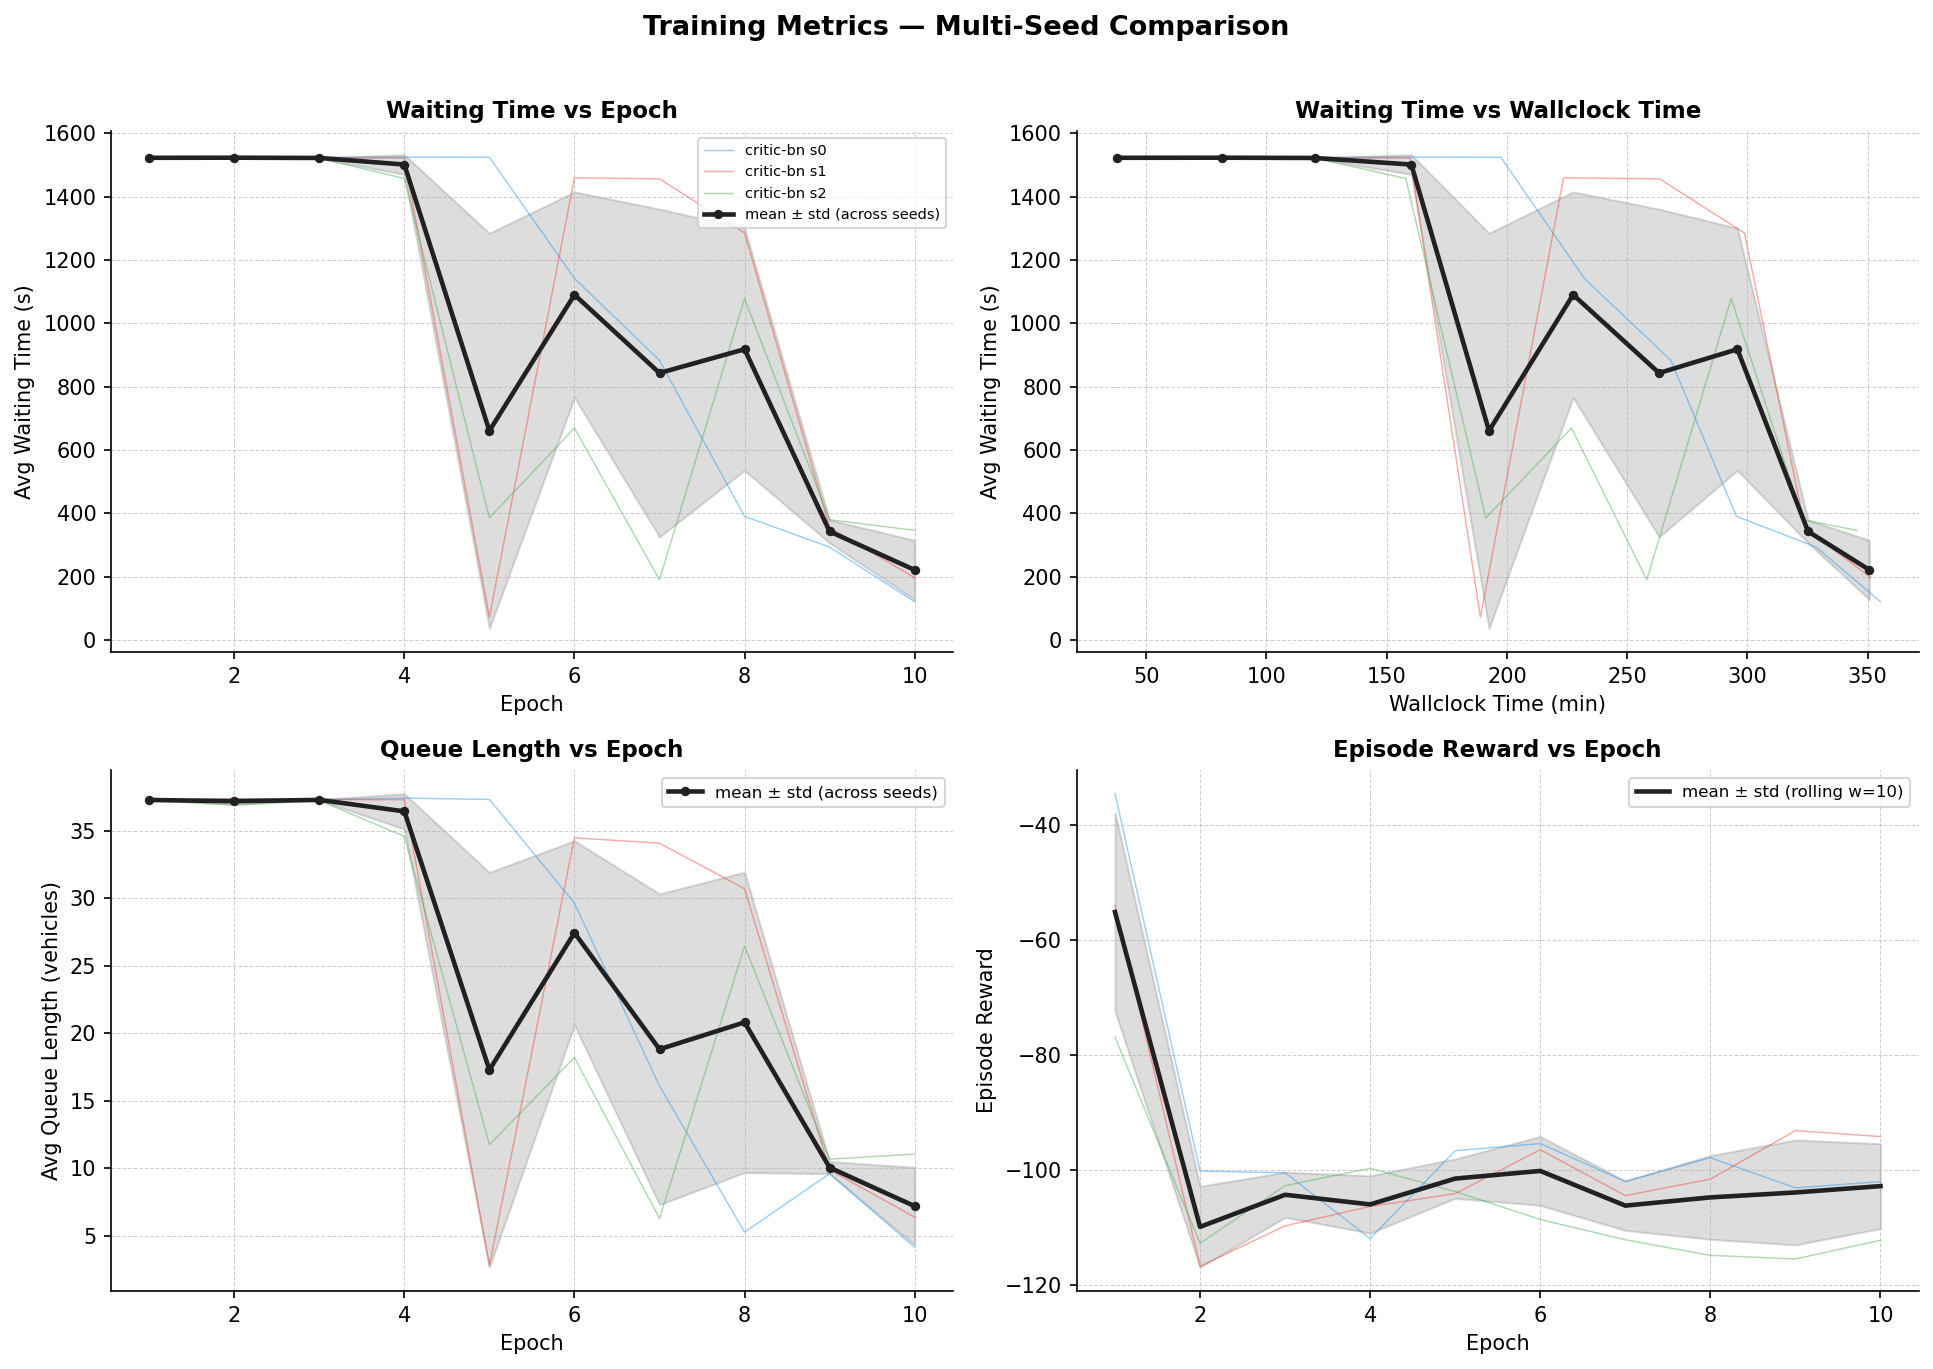
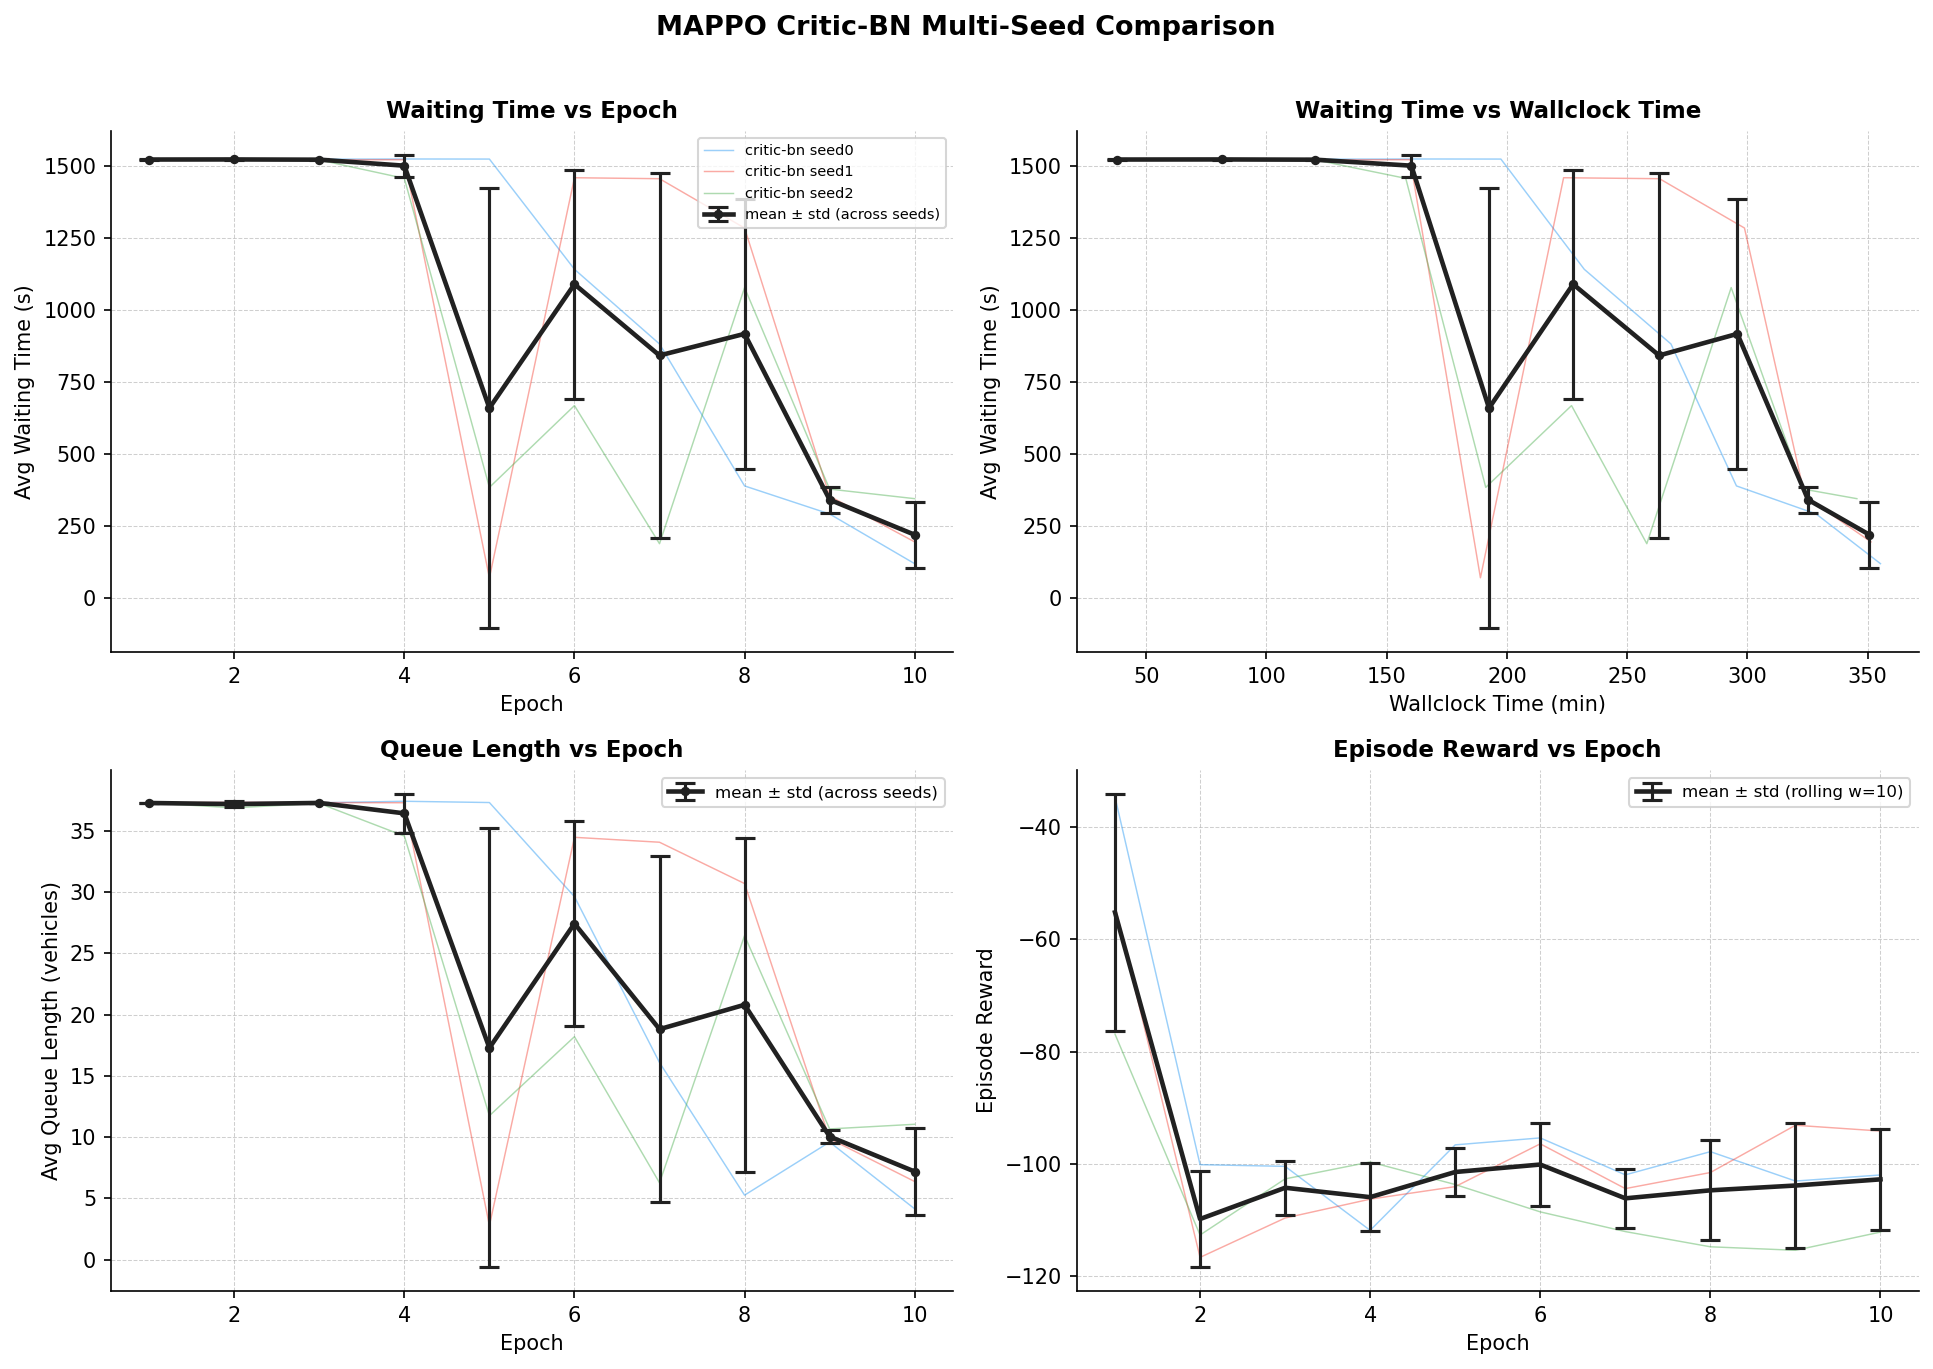
changed the MAPPO_BNTT name to MAPPO_BN

diff --git a/scripts/plot_metrics.py b/scripts/plot_metrics.py
@@ -192,13 +192,14 @@ PALETTE = [
 ]
 
 
-def plot_single(df: pd.DataFrame, label: str, smooth: int, out_dir: str, show: bool):
+def plot_single(df: pd.DataFrame, label: str, smooth: int, out_dir: str, show: bool,
+                title: str | None = None):
     """Plot a single CSV run — no cross-seed variance."""
     ev = _single_seed_eval(df)
     tr = _single_seed_train(df)
 
     fig, axes = plt.subplots(2, 2, figsize=(13, 9))
-    fig.suptitle(f"Training Metrics — {label}", fontsize=13, fontweight="bold", y=1.01)
+    fig.suptitle(title or f"Training Metrics — {label}", fontsize=13, fontweight="bold", y=1.01)
 
     color = PALETTE[0]
 
@@ -210,7 +211,7 @@ def plot_single(df: pd.DataFrame, label: str, smooth: int, out_dir: str, show: b
         std = ev["std_waiting_time"].values if "std_waiting_time" in ev.columns else None
         _shade(ax, x, y, std, color)
         ax.plot(x, y, color=color, linewidth=1.8, marker="o", markersize=3, label=label)
-        ax.legend(fontsize=8)
+        ax.legend(fontsize=8, loc="best")
     else:
         ax.text(0.5, 0.5, "No waiting-time data\n(run eval to populate)",
                 ha="center", va="center", transform=ax.transAxes, color="grey")
@@ -224,7 +225,8 @@ def plot_single(df: pd.DataFrame, label: str, smooth: int, out_dir: str, show: b
         y   = ev["mean_waiting_time"].values
         std = ev["std_waiting_time"].values if "std_waiting_time" in ev.columns else None
         _shade(ax, x, y, std, color)
-        ax.plot(x, y, color=color, linewidth=1.8, marker="o", markersize=3)
+        ax.plot(x, y, color=color, linewidth=1.8, marker="o", markersize=3, label=label)
+        ax.legend(fontsize=8, loc="best")
     else:
         ax.text(0.5, 0.5, "No waiting-time data", ha="center", va="center",
                 transform=ax.transAxes, color="grey")
@@ -238,7 +240,8 @@ def plot_single(df: pd.DataFrame, label: str, smooth: int, out_dir: str, show: b
         y   = ev["mean_queue_length"].values
         std = ev["std_queue_length"].values if "std_queue_length" in ev.columns else None
         _shade(ax, x, y, std, color)
-        ax.plot(x, y, color=color, linewidth=1.8, marker="o", markersize=3)
+        ax.plot(x, y, color=color, linewidth=1.8, marker="o", markersize=3, label=label)
+        ax.legend(fontsize=8, loc="best")
     else:
         ax.text(0.5, 0.5, "No queue-length data", ha="center", va="center",
                 transform=ax.transAxes, color="grey")
@@ -252,8 +255,8 @@ def plot_single(df: pd.DataFrame, label: str, smooth: int, out_dir: str, show: b
         y_smth = _rolling_mean(tr["episode_reward"], smooth).values
         ax.plot(x_raw, y_raw, color=color, linewidth=0.6, alpha=0.3)
         ax.plot(x_raw, y_smth, color=color, linewidth=1.8,
-                label=f"rolling mean (w={smooth})")
-        ax.legend(fontsize=8)
+                label=f"{label} — rolling mean (w={smooth})")
+        ax.legend(fontsize=8, loc="best")
     else:
         ax.text(0.5, 0.5, "No reward data", ha="center", va="center",
                 transform=ax.transAxes, color="grey")
@@ -264,10 +267,11 @@ def plot_single(df: pd.DataFrame, label: str, smooth: int, out_dir: str, show: b
 
 
 def plot_multi(dfs: list[pd.DataFrame], labels: list[str],
-               smooth: int, out_dir: str, show: bool):
+               smooth: int, out_dir: str, show: bool,
+               title: str | None = None):
     """Plot multiple runs with per-seed lines and cross-seed variance shading."""
     fig, axes = plt.subplots(2, 2, figsize=(13, 9))
-    fig.suptitle("Training Metrics — Multi-Seed Comparison",
+    fig.suptitle(title or "Training Metrics — Multi-Seed Comparison",
                  fontsize=13, fontweight="bold", y=1.01)
 
     # ── draw individual seed traces (thin, faint) ─────────────────────────
@@ -281,16 +285,16 @@ def plot_multi(dfs: list[pd.DataFrame], labels: list[str],
                             color=color, linewidth=0.7, alpha=0.45, label=label)
             if "wallclock_time_s" in ev.columns:
                 axes[0, 1].plot(ev["wallclock_time_s"] / 60.0, ev["mean_waiting_time"],
-                                color=color, linewidth=0.7, alpha=0.45)
+                                color=color, linewidth=0.7, alpha=0.45, label=label)
 
         if "mean_queue_length" in ev.columns and ev["mean_queue_length"].notna().any():
             axes[1, 0].plot(ev["epoch"], ev["mean_queue_length"],
-                            color=color, linewidth=0.7, alpha=0.45)
+                            color=color, linewidth=0.7, alpha=0.45, label=label)
 
         if "episode_reward" in tr.columns and tr["episode_reward"].notna().any():
             y_smth = _rolling_mean(tr["episode_reward"], smooth).values
             axes[1, 1].plot(tr["epoch"], y_smth,
-                            color=color, linewidth=0.7, alpha=0.45)
+                            color=color, linewidth=0.7, alpha=0.45, label=label)
 
     # ── draw cross-seed aggregate (bold mean + shaded std) ────────────────
     agg_ev = _multi_seed_eval(dfs)
@@ -306,7 +310,7 @@ def plot_multi(dfs: list[pd.DataFrame], labels: list[str],
                         linewidth=2.2, markersize=3.5, capsize=5,
                         elinewidth=1.5, capthick=1.5,
                         label="mean ± std (across seeds)", zorder=5)
-            ax.legend(fontsize=8)
+            ax.legend(fontsize=8, loc="best")
         _style_ax(ax, xlabel, ylabel, title)
 
     _plot_agg_eval(axes[0, 0],
@@ -320,7 +324,9 @@ def plot_multi(dfs: list[pd.DataFrame], labels: list[str],
         std = agg_ev["mean_waiting_time_std"].values
         axes[0, 1].errorbar(x, y, yerr=std, fmt="-o", color=agg_color,
                             linewidth=2.2, markersize=3.5, capsize=5,
-                            elinewidth=1.5, capthick=1.5, zorder=5)
+                            elinewidth=1.5, capthick=1.5,
+                            label="mean ± std (across seeds)", zorder=5)
+        axes[0, 1].legend(fontsize=7, loc="best")
     _style_ax(axes[0, 1], "Wallclock Time (min)", "Avg Waiting Time (s)",
               "Waiting Time vs Wallclock Time")
 
@@ -335,11 +341,13 @@ def plot_multi(dfs: list[pd.DataFrame], labels: list[str],
         axes[1, 1].errorbar(x, y, yerr=std, fmt="-", color=agg_color,
                             linewidth=2.2, capsize=5, elinewidth=1.5, capthick=1.5,
                             label=f"mean ± std (rolling w={smooth})", zorder=5)
-        axes[1, 1].legend(fontsize=8)
+        axes[1, 1].legend(fontsize=8, loc="best")
     _style_ax(axes[1, 1], "Epoch", "Episode Reward", "Episode Reward vs Epoch")
 
-    # Add per-seed legend to subplot [0,0]
-    axes[0, 0].legend(fontsize=7, loc="upper right")
+    # Add per-seed legend to all subplots
+    axes[0, 0].legend(fontsize=7, loc="best")
+    axes[1, 0].legend(fontsize=7, loc="best")
+    axes[1, 1].legend(fontsize=7, loc="best")
 
     fig.tight_layout()
     _save_and_show(fig, out_dir, "metrics_overview.png", show)
@@ -412,6 +420,12 @@ def parse_args():
         "--show", action="store_true",
         help="Display the figure interactively (requires a display).",
     )
+    p.add_argument(
+        "--title", default=None, metavar="TEXT",
+        help="Override the figure suptitle. "
+             "Defaults to 'Training Metrics — <label>' (single) or "
+             "'Training Metrics — Multi-Seed Comparison' (multi).",
+    )
     return p.parse_args()
 
 
@@ -467,9 +481,9 @@ def main():
     print(f"[plot_metrics] Loaded {len(dfs)} CSV(s)")
 
     if len(dfs) == 1:
-        plot_single(dfs[0], labels[0], args.smooth, out_dir, args.show)
+        plot_single(dfs[0], labels[0], args.smooth, out_dir, args.show, title=args.title)
     else:
-        plot_multi(dfs, labels, args.smooth, out_dir, args.show)
+        plot_multi(dfs, labels, args.smooth, out_dir, args.show, title=args.title)
 
     print("[plot_metrics] Done.")
 